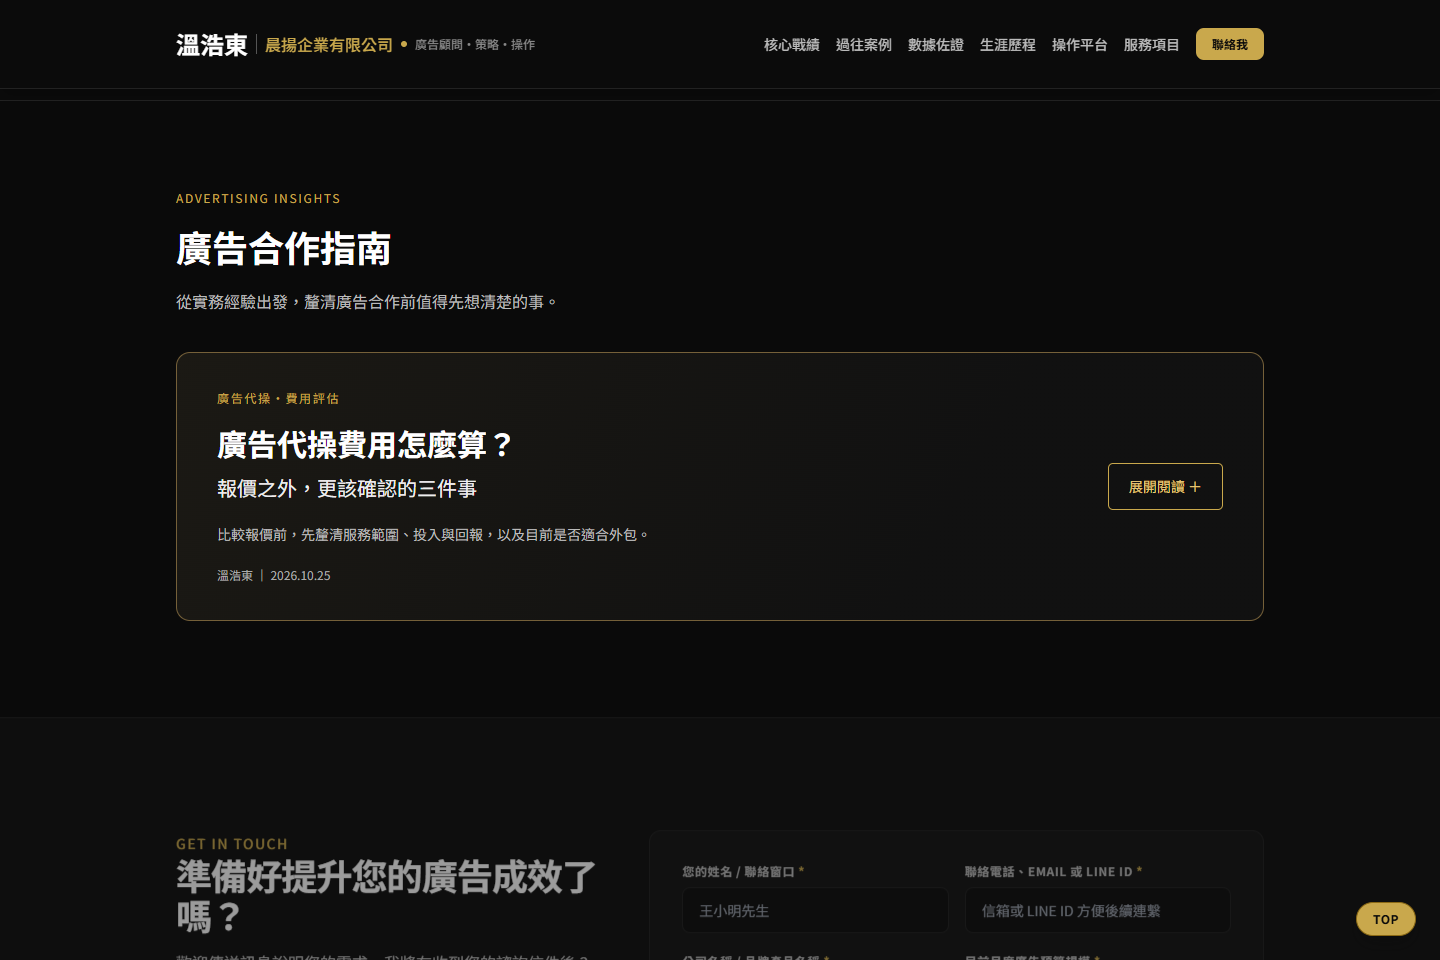
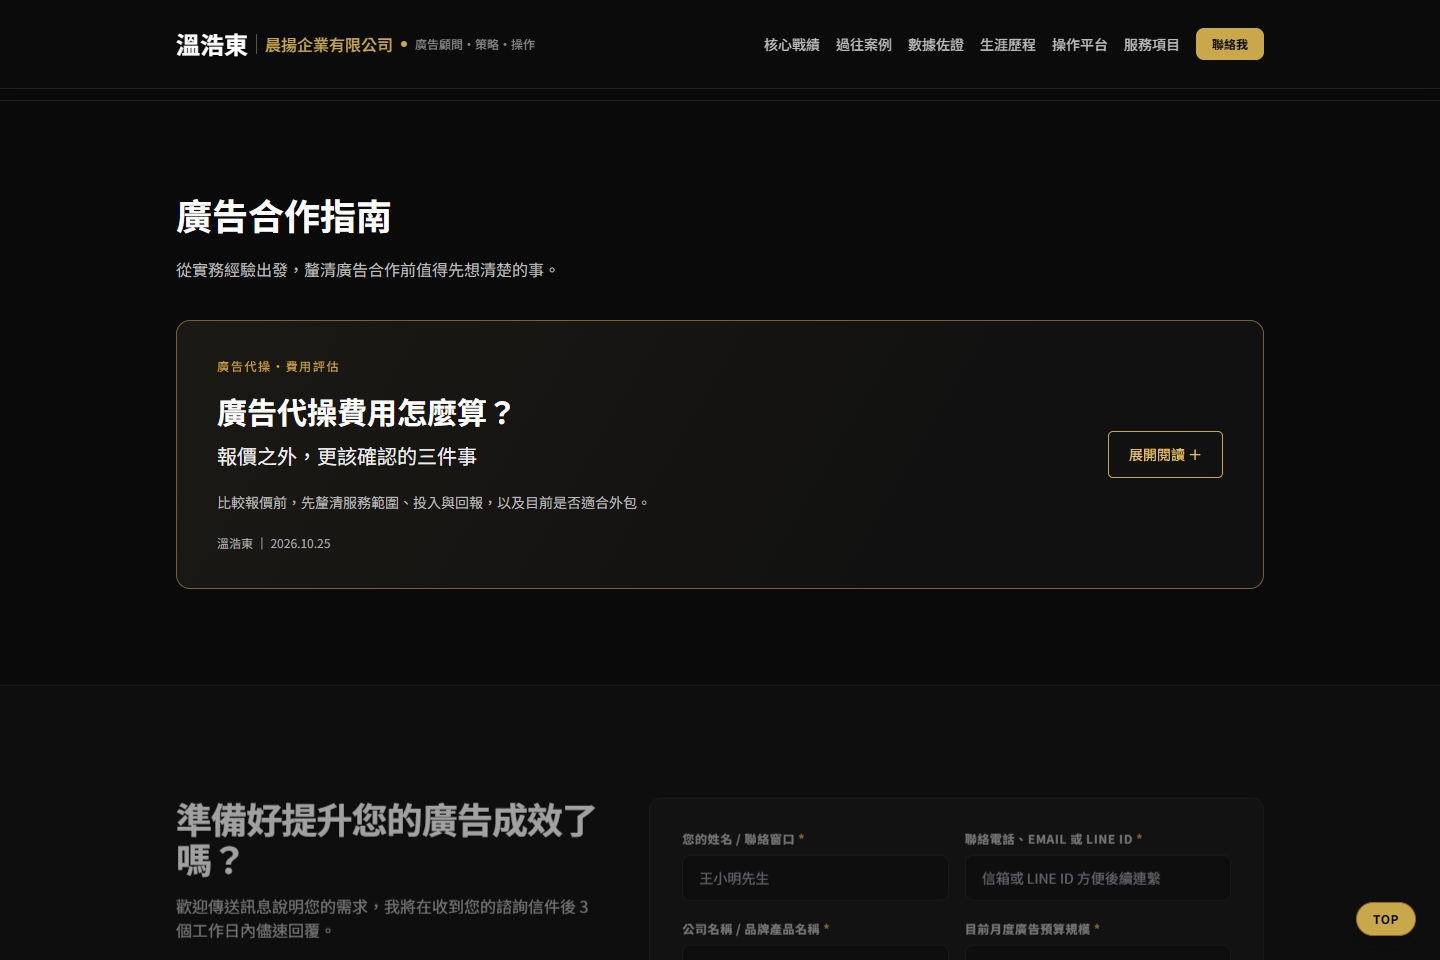
Remove seven English section subtitles as requested

diff --git a/index.html b/index.html
@@ -341,7 +341,6 @@
   <section id="cases" class="py-20 md:py-28 relative reveal">
     <div class="max-w-6xl mx-auto px-4 sm:px-6 lg:px-8">
       <div class="flex flex-col items-start mb-12">
-        <span class="section-subtitle">SUCCESS STORIES</span>
         <h2 class="section-title">過往案例</h2>
         <p class="text-gray-dim text-sm sm:text-base mt-2 max-w-2xl">
           資料來源均為真實代操數據與月報（已去識別化處理，品牌名稱、金額替換為區間/倍數，不作任何保證）
@@ -465,7 +464,6 @@
     <div class="max-w-6xl mx-auto px-4 sm:px-6 lg:px-8">
       
       <div class="flex flex-col items-start mb-12">
-        <span class="section-subtitle">DATA EVIDENCE</span>
         <h2 class="section-title">數據佐證</h2>
         <p class="text-gray-light text-sm sm:text-base mt-2 max-w-2xl">
           以下數據來自實際操作案例，經去識別化處理，以區間、倍數與百分比呈現。
@@ -579,7 +577,6 @@
     <div class="max-w-6xl mx-auto px-4 sm:px-6 lg:px-8">
       
       <div class="flex flex-col items-start mb-12">
-        <span class="section-subtitle">CAREER JOURNEY</span>
         <h2 class="section-title">生涯歷程</h2>
         <p class="text-gray-light text-sm sm:text-base mt-2 max-w-2xl">
           從接案起步到千萬規模操盤，8年以上 廣告實戰積累。
@@ -725,7 +722,6 @@
     <div class="max-w-6xl mx-auto px-4 sm:px-6 lg:px-8">
       
       <div class="flex flex-col items-start mb-12">
-        <span class="section-subtitle">SKILLS & TOOLS</span>
         <h2 class="section-title">操作平台 & 數據分析能力</h2>
         <p class="text-gray-light text-sm sm:text-base mt-2 max-w-2xl">
           兼具媒體購買實操深度與後端數據整合高度的整合能力。
@@ -901,7 +897,6 @@
     <div class="max-w-6xl mx-auto px-4 sm:px-6 lg:px-8">
       
       <div class="flex flex-col items-start mb-12">
-        <span class="section-subtitle">WHAT I DO</span>
         <h2 class="section-title">服務項目</h2>
         <p class="text-gray-light text-sm sm:text-base mt-2 max-w-2xl">
           提供高彈性、數據透明、可量化的整合型廣告行銷顧問服務。
@@ -1022,7 +1017,6 @@
   <!-- Advertising cooperation guide: full article is present before interaction -->
   <section id="insights" aria-labelledby="insights-heading" class="article-section">
     <div class="article-container">
-      <p class="article-eyebrow">ADVERTISING INSIGHTS</p>
       <h2 id="insights-heading">廣告合作指南</h2>
       <p class="article-intro">從實務經驗出發，釐清廣告合作前值得先想清楚的事。</p>
       <details id="ad-pricing-article" class="article-card">
@@ -1103,7 +1097,6 @@
         
         <!-- Left Side: Information text -->
         <div class="lg:col-span-5">
-          <span class="section-subtitle">GET IN TOUCH</span>
           <h2 class="section-title mb-4">準備好提升您的廣告成效了嗎？</h2>
           <p class="text-gray-light text-sm sm:text-base leading-relaxed mb-8">
             歡迎傳送訊息說明您的需求，我將在收到您的諮詢信件後 3 個工作日內儘速回覆。

diff --git a/tests/article-content.py b/tests/article-content.py
@@ -6,6 +6,9 @@ from html.parser import HTMLParser
 
 page = Path('index.html').read_text(encoding='utf-8')
 original = subprocess.check_output(['git','show','main:index.html']).decode('utf-8').replace('\r\n','\n')
+for label in ['SUCCESS STORIES','DATA EVIDENCE','CAREER JOURNEY','SKILLS & TOOLS','WHAT I DO','GET IN TOUCH']:
+    original=re.sub(r'^ *<span class="section-subtitle">'+re.escape(label)+r'</span>\n', '', original, flags=re.M)
+assert all(label not in page for label in ['SUCCESS STORIES','DATA EVIDENCE','CAREER JOURNEY','SKILLS & TOOLS','WHAT I DO','GET IN TOUCH','ADVERTISING INSIGHTS'])
 clean = re.sub(r'\n  <style id="article-styles">.*?</style>\n\n', '', page, flags=re.S)
 clean = re.sub(r'\n  <!-- Advertising cooperation guide:.*?(?=  <!-- ==================== Contact Section)', '', clean, flags=re.S)
 assert clean.strip() == original.strip(), 'Existing page changed outside article additions'

diff --git a/tools/build_article.py b/tools/build_article.py
@@ -46,7 +46,6 @@ section = '''
   <!-- Advertising cooperation guide: full article is present before interaction -->
   <section id="insights" aria-labelledby="insights-heading" class="article-section">
     <div class="article-container">
-      <p class="article-eyebrow">ADVERTISING INSIGHTS</p>
       <h2 id="insights-heading">廣告合作指南</h2>
       <p class="article-intro">從實務經驗出發，釐清廣告合作前值得先想清楚的事。</p>
       <details id="ad-pricing-article" class="article-card">
